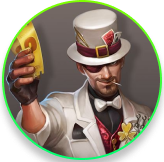
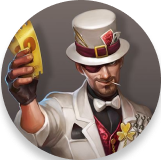
second

diff --git a/layouts/game.html b/layouts/game.html
@@ -17,6 +17,7 @@
       <div class="warning">
         <img src="../png/stars.png" alt="stars" class="stars"/>
         <img src="../png/coins.png" alt="coins" class="coins"/>
+        <div class="result">You lose</div>
         <div class="reward">0</div>
         <div class="again block">Ok</div>
       </div>
@@ -44,7 +45,7 @@
           <div class="minus block">-</div>
           <div class="bet_amount_cont">
             <div>BET</div>
-            <div class="bet_amount">0</div>
+            <div class="bet_amount block">0</div>
           </div>
           <div class="plus block">+</div>
         </div>

diff --git a/scripts/game.js b/scripts/game.js
@@ -205,10 +205,17 @@ function rotate() {
 function gameOver(win) {
     if (win) {
         let reward = Math.round(Number(betAmount.innerHTML) * 30)
+
+        warning.classList.add('win')
         warning.querySelector('.reward').innerHTML = reward
+        warning.querySelector('.result').classList.add('hidden')
+
         changeBalance(reward)
     } else {
+        warning.classList.remove('win')
+
         warning.querySelector('.reward').innerHTML = 0
+        warning.querySelector('.result').classList.remove('hidden')
     }
 
     warning.style.left = '50%'

diff --git a/styles/game.css b/styles/game.css
@@ -10,11 +10,22 @@
 
   font-size: 3vw;
 
-  background-image: url("../png/warning.png");
+  background-image: url("../png/frame_red.png");
   background-position: center;
   background-size: contain;
 
   transition: left 1.5s ease;
+}
+
+.warning.win {
+  background-image: url("../png/warning.png");
+}
+
+.result {
+  position: absolute;
+  left: 50%;
+  top: 2%;
+  transform: translateX(-50%);
 }
 
 .reward {

diff --git a/styles/avatar.css b/styles/avatar.css
@@ -18,10 +18,12 @@
 
 .avatar {
   width: 100px;
+  border-radius: 50%;
+  box-sizing: border-box;
 }
 
 .chosen {
-  filter: brightness(150%);
+  outline: springgreen 5px solid;
 }
 
 input {

diff --git a/styles/common_style.css b/styles/common_style.css
@@ -76,7 +76,7 @@ a {
   margin-right: 20px;
 }
 
-@media screen and (min-height:600px) {
+@media screen and (min-height: 600px) {
   .balance_field {
     width: 250px;
     height: 50px;
